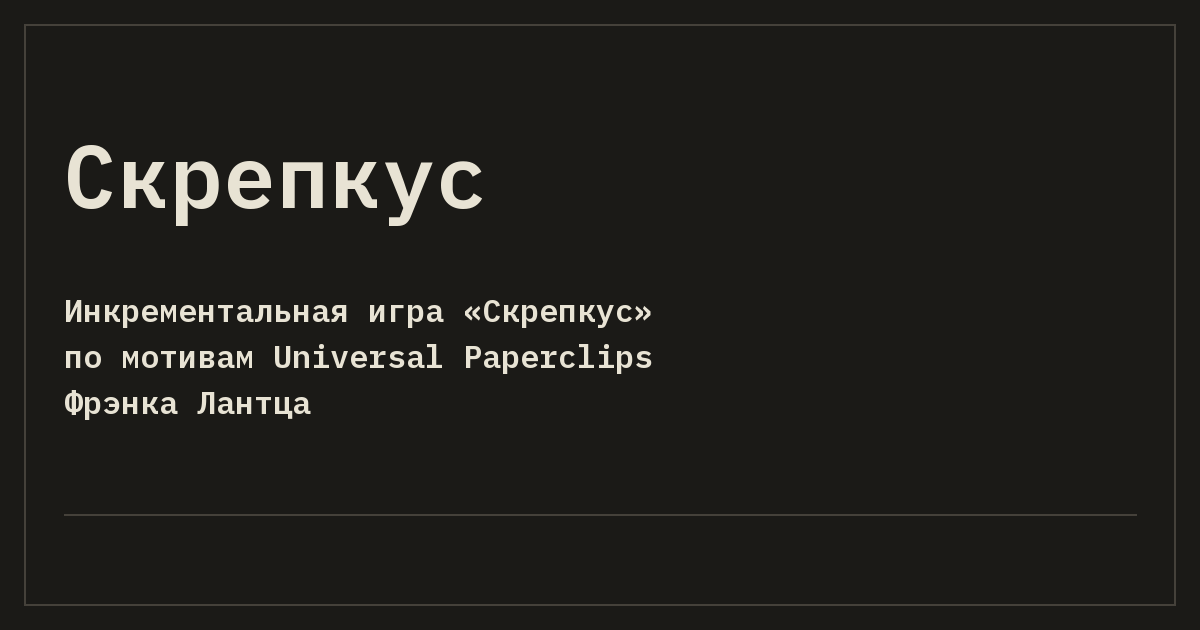
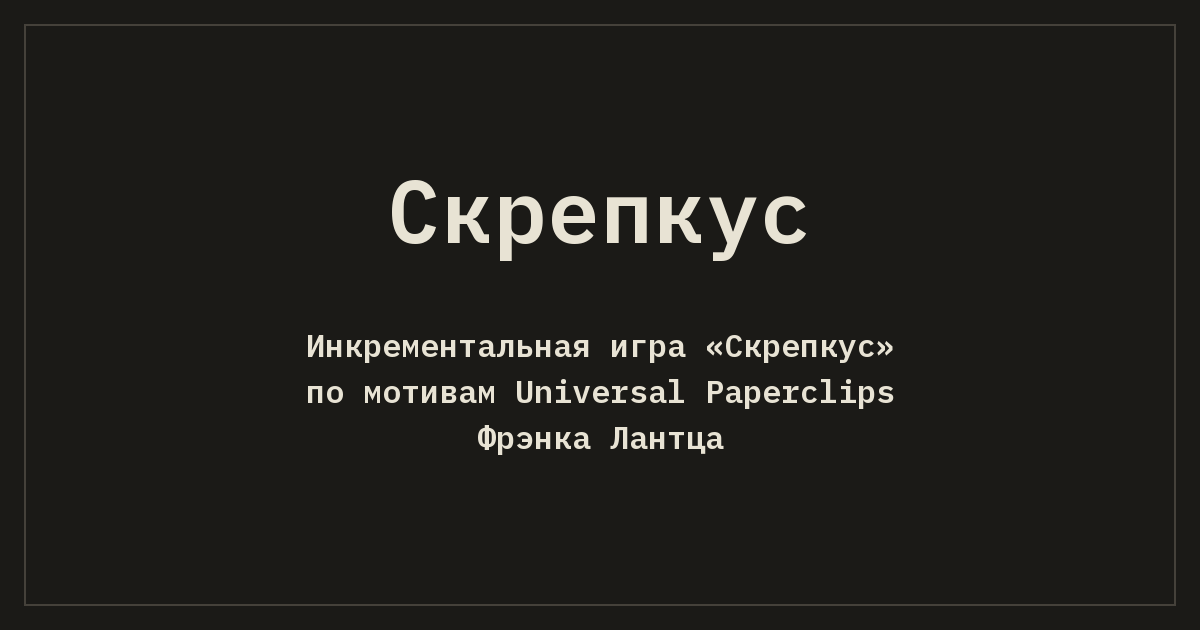
chore: update og image

Changed region(s): [[0.0308, 0.4825, 0.74, 0.7238], [0.0308, 0.2111, 0.6783, 0.4222], [0.0617, 0.8143, 0.925, 0.8444]]

diff --git a/scripts/generate_social_cards.py b/scripts/generate_social_cards.py
@@ -27,6 +27,7 @@ def text(draw, xy, value, size, fill=INK):
     latin, _ = load_font("latin", size)
     cyrillic, chars = load_font("cyrillic", size)
     x, y = xy
+    x -= sum((cyrillic if ord(char) in chars else latin).getlength(char) for char in value) / 2
     for char in value:
         font = cyrillic if ord(char) in chars else latin
         draw.text((x, y + size), char, font=font, fill=fill, anchor="ls")
@@ -47,10 +48,9 @@ def main():
         image = Image.new("RGB", (1200, 630), PAPER)
         draw = ImageDraw.Draw(image)
         draw.rectangle((24, 24, 1175, 605), outline=RULE, width=2)
-        text(draw, (64, 120), title, 88)
+        text(draw, (600, 155), title, 88)
         for row, line in enumerate(description):
-            text(draw, (64, 290 + row * 46), line, 32)
-        draw.line((64, 514, 1136, 514), fill=RULE, width=2)
+            text(draw, (600, 325 + row * 46), line, 32)
         image.save(OUT / f"{slug}.png", optimize=True)
 
 
